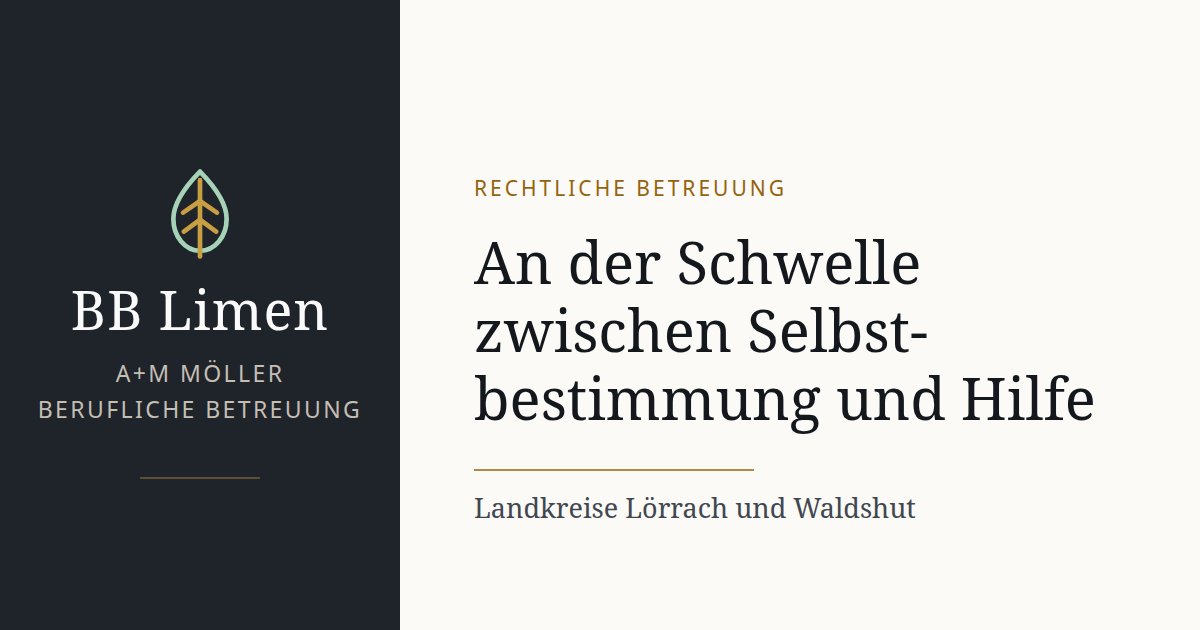
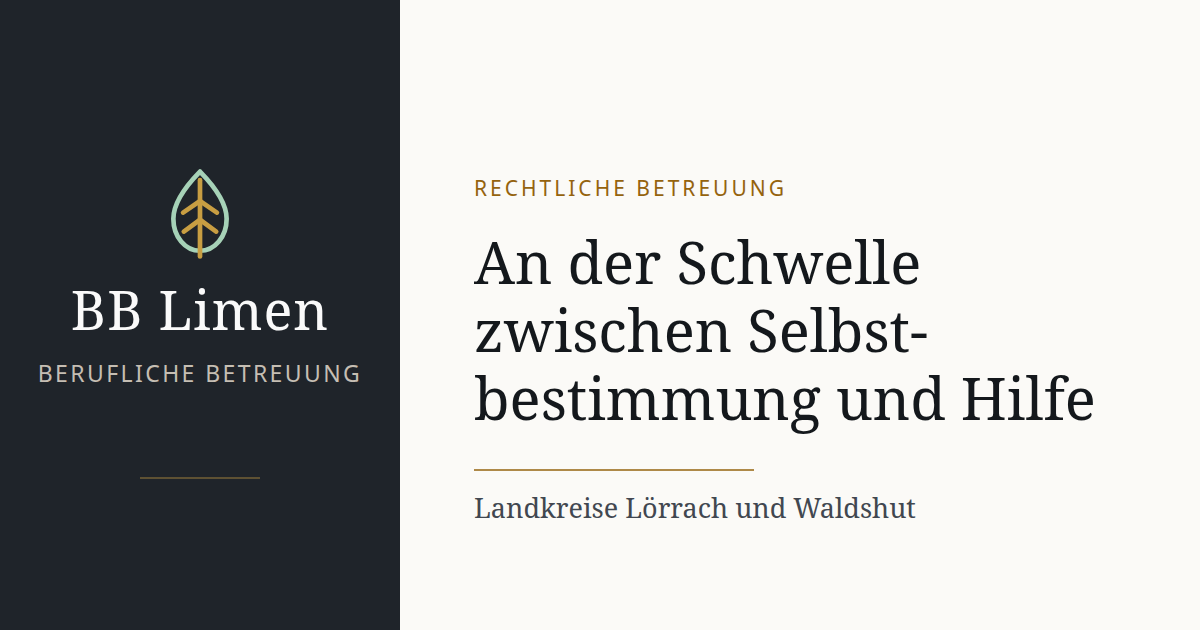
Namenszusatz „A+M Möller" aus Bausteinen, Vorschaubild, Lizenz und README entfernt
Die Website tritt nur noch als „BB Limen" auf: Seitenfuß, Kolumne,
og:site_name und og:image:alt, Vorschaubild samt Vorlage, LICENSE und README.

Changed region(s): [[0.0308, 0.6333, 0.3083, 0.6635], [0.0308, 0.573, 0.3083, 0.6032]]

diff --git a/src/partials/rail.html b/src/partials/rail.html
@@ -8,7 +8,7 @@
       </svg>
       <p class="rail-name">BB Limen</p>
     </a>
-    <p class="rail-role"><span>A+M Möller</span><span>Berufliche Betreuung</span></p>
+    <p class="rail-role"><span>Berufliche Betreuung</span></p>
 
     <div class="rail-ornament" aria-hidden="true"><svg class="zierblatt" viewBox="0 0 24 26" aria-hidden="true" focusable="false" fill="none" stroke="currentColor" stroke-width="1.6" stroke-linecap="round" stroke-linejoin="round"><path d="M12 1.2c4.6 4.7 7.4 9 7.4 13.1 0 5-3.3 8.9-7.4 8.9s-7.4-3.9-7.4-8.9C4.6 10.2 7.4 5.9 12 1.2Z"/><path d="M12 3.6v21.2"/><path d="M12 9.4 7.3 12.6M12 9.4l4.7 3.2M12 14.6l-4.5 3.3M12 14.6l4.5 3.3"/></svg></div>
 
@@ -35,7 +35,7 @@
       <dt>E-Mail</dt>
       <dd><a href="mailto:%%BUREAU:email%%">%%BUREAU:email%%</a></dd>
       <dt>Post</dt>
-      <dd class="post">BB Limen<br>A+M Möller<br>Postfach %%BUREAU:postanschrift.postfach%%<br>%%BUREAU:postanschrift.plz%% %%BUREAU:postanschrift.ort%%</dd>
+      <dd class="post">BB Limen<br>Postfach %%BUREAU:postanschrift.postfach%%<br>%%BUREAU:postanschrift.plz%% %%BUREAU:postanschrift.ort%%</dd>
       <dt>Einzugsgebiet</dt>
       <dd class="post">Landkreis Lörrach<br>Landkreis Waldshut</dd>
     </dl>

diff --git a/src/partials/head.html b/src/partials/head.html
@@ -17,11 +17,11 @@
      jeder Seite einzeln, direkt beim Titel. -->
 <meta property="og:type" content="website">
 <meta property="og:locale" content="de_DE">
-<meta property="og:site_name" content="BB Limen · A+M Möller">
+<meta property="og:site_name" content="BB Limen">
 <meta property="og:image" content="https://bb-limen.de/vorschau.png">
 <meta property="og:image:width" content="1200">
 <meta property="og:image:height" content="630">
-<meta property="og:image:alt" content="BB Limen · A+M Möller — Rechtliche Betreuung in den Landkreisen Lörrach und Waldshut">
+<meta property="og:image:alt" content="BB Limen · Berufliche Betreuung in den Landkreisen Lörrach und Waldshut">
 <meta name="twitter:card" content="summary_large_image">
 
 <link rel="stylesheet" href="style.css">

diff --git a/src/partials/foot.html b/src/partials/foot.html
@@ -1,4 +1,4 @@
     <footer class="sheet-foot">
-      <span>BB Limen · A+M Möller · Berufliche Betreuung</span>
+      <span>BB Limen · Berufliche Betreuung</span>
       <span class="foot-recht"><a href="impressum.html">Impressum</a> · <a href="datenschutz.html">Datenschutz</a></span>
     </footer>

diff --git a/README.md b/README.md
@@ -1,6 +1,6 @@
 # bb-limen.de — statische Website
 
-Die Website von BB Limen · A+M Möller, einem Büro für rechtliche Betreuung.
+Die Website von BB Limen, einem Büro für rechtliche Betreuung.
 Statische HTML-Seiten, ein Stylesheet, keine externen Ressourcen und kein
 JavaScript im Browser. Bearbeitet werden `src/` und `public/`;
 `tools/build.sh` erzeugt daraus die Ausgabe in `dist/`.
